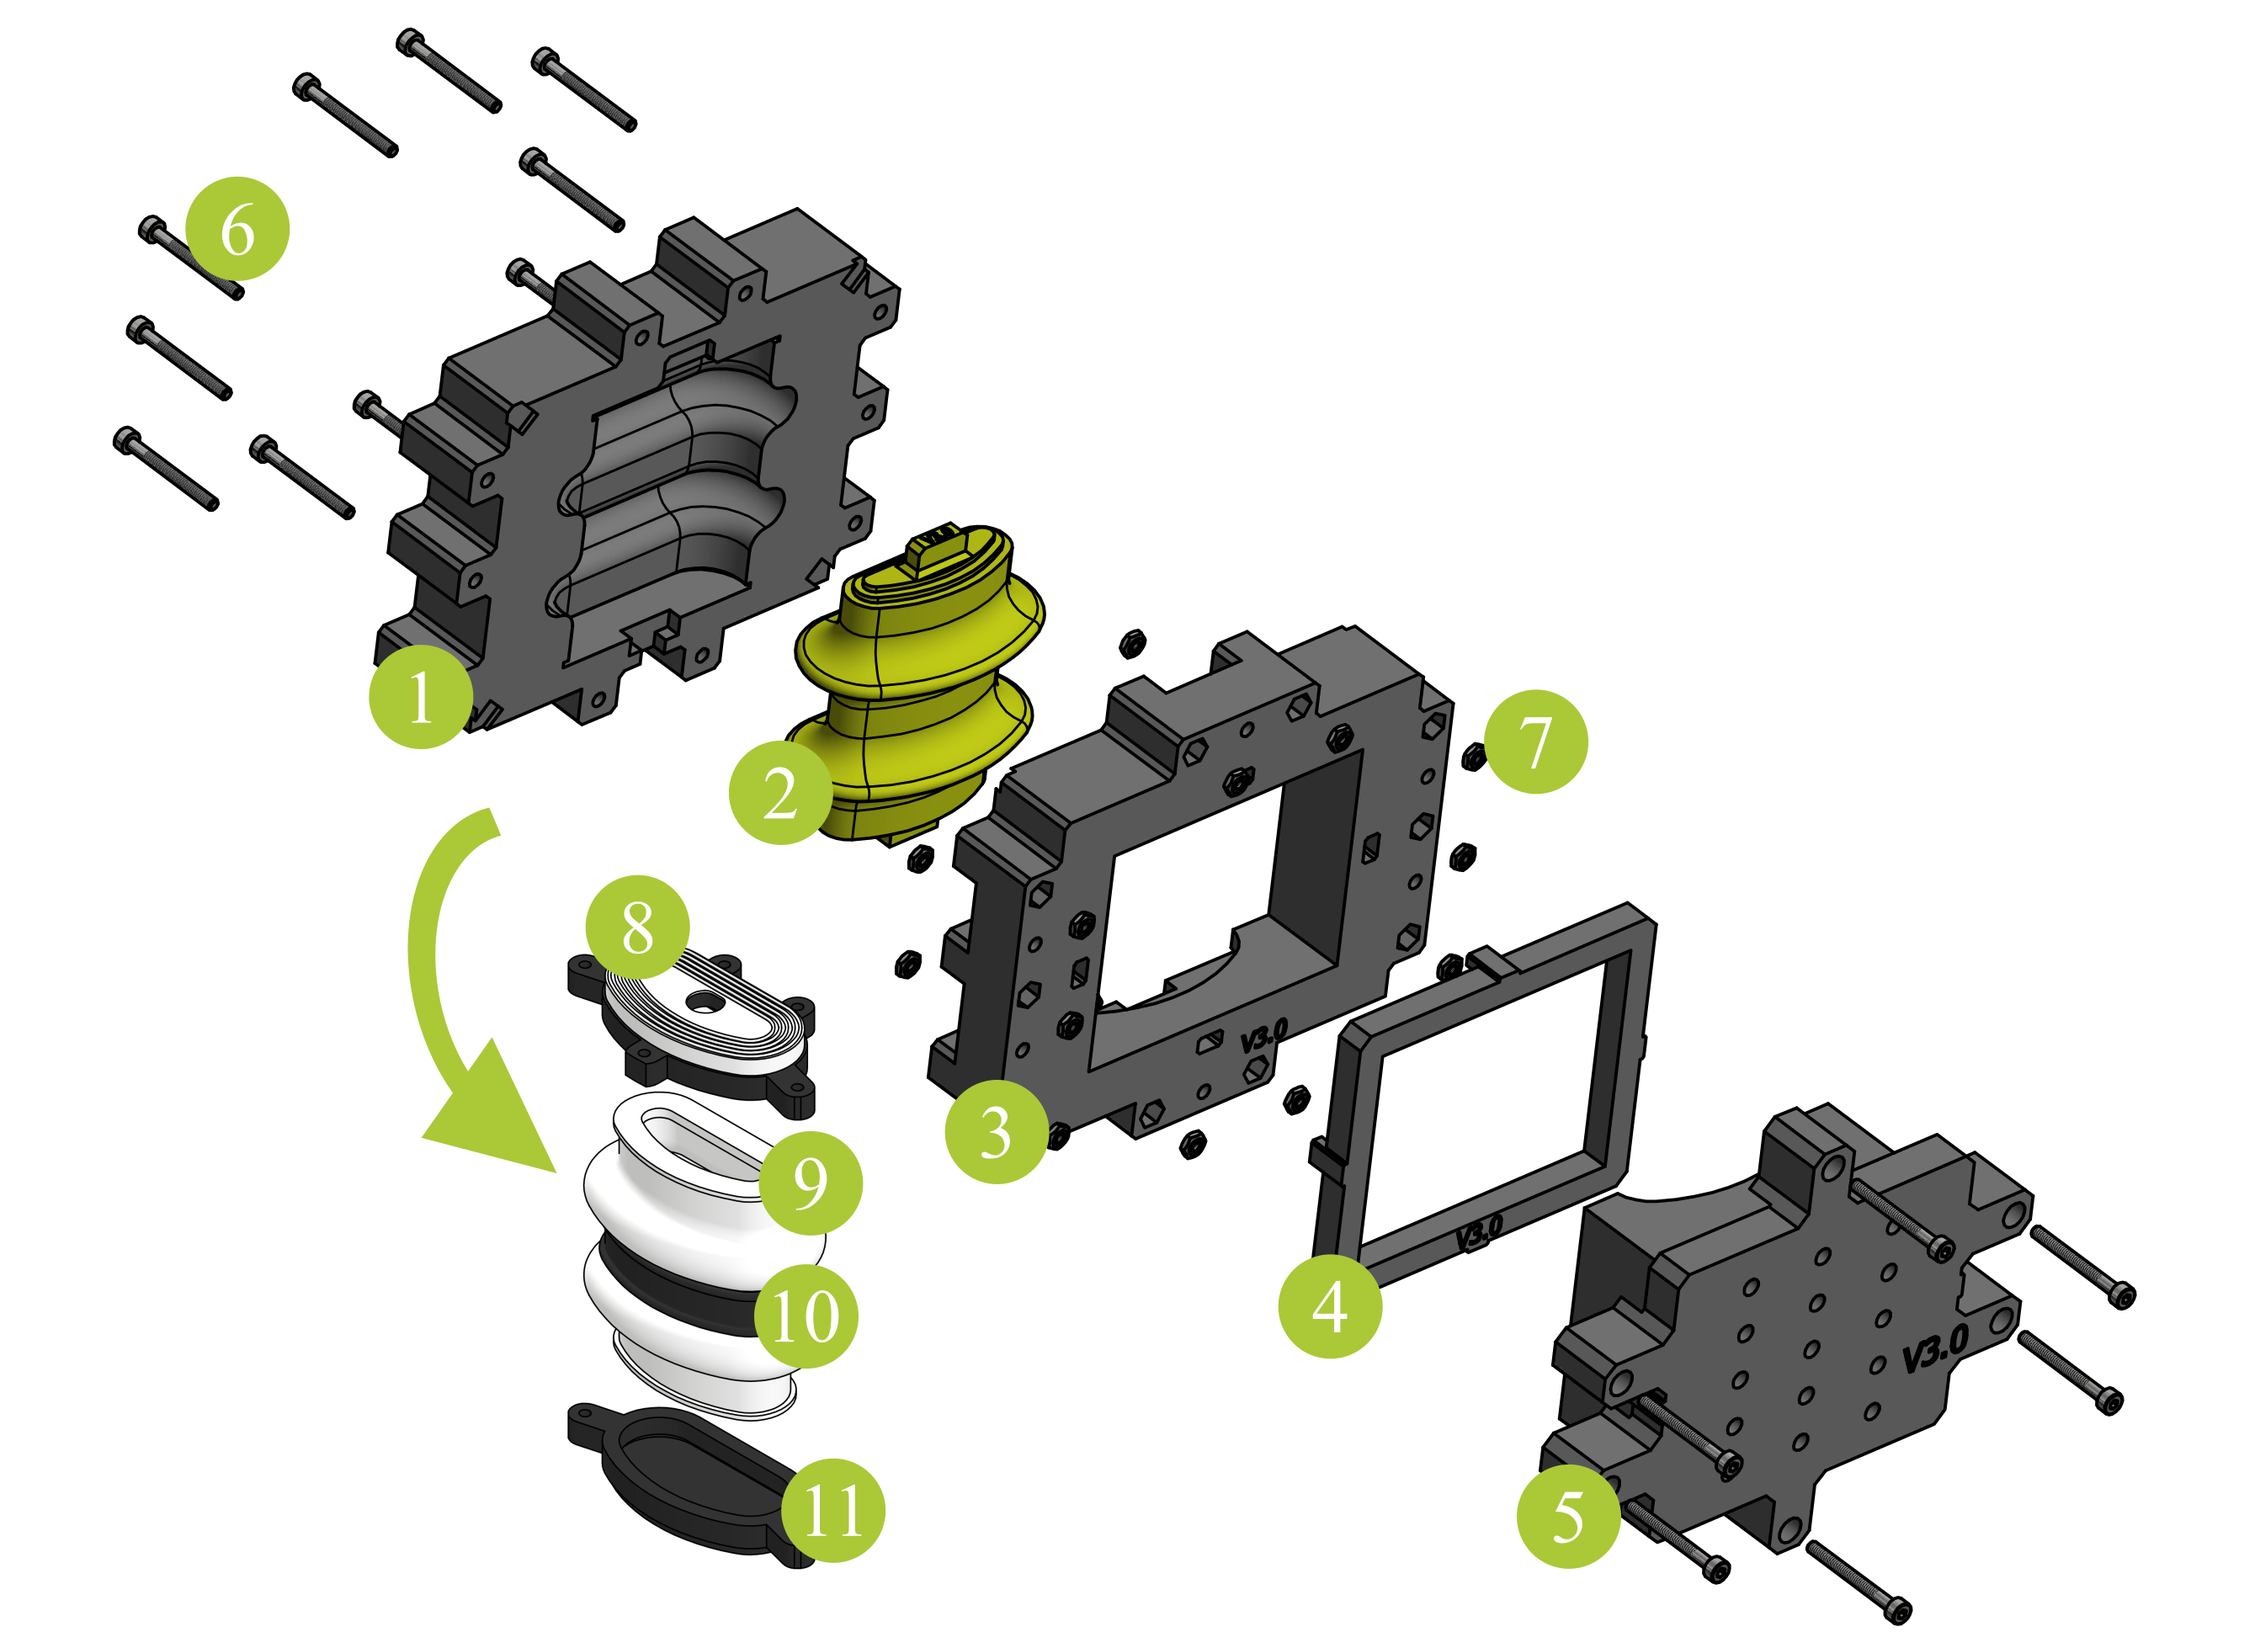
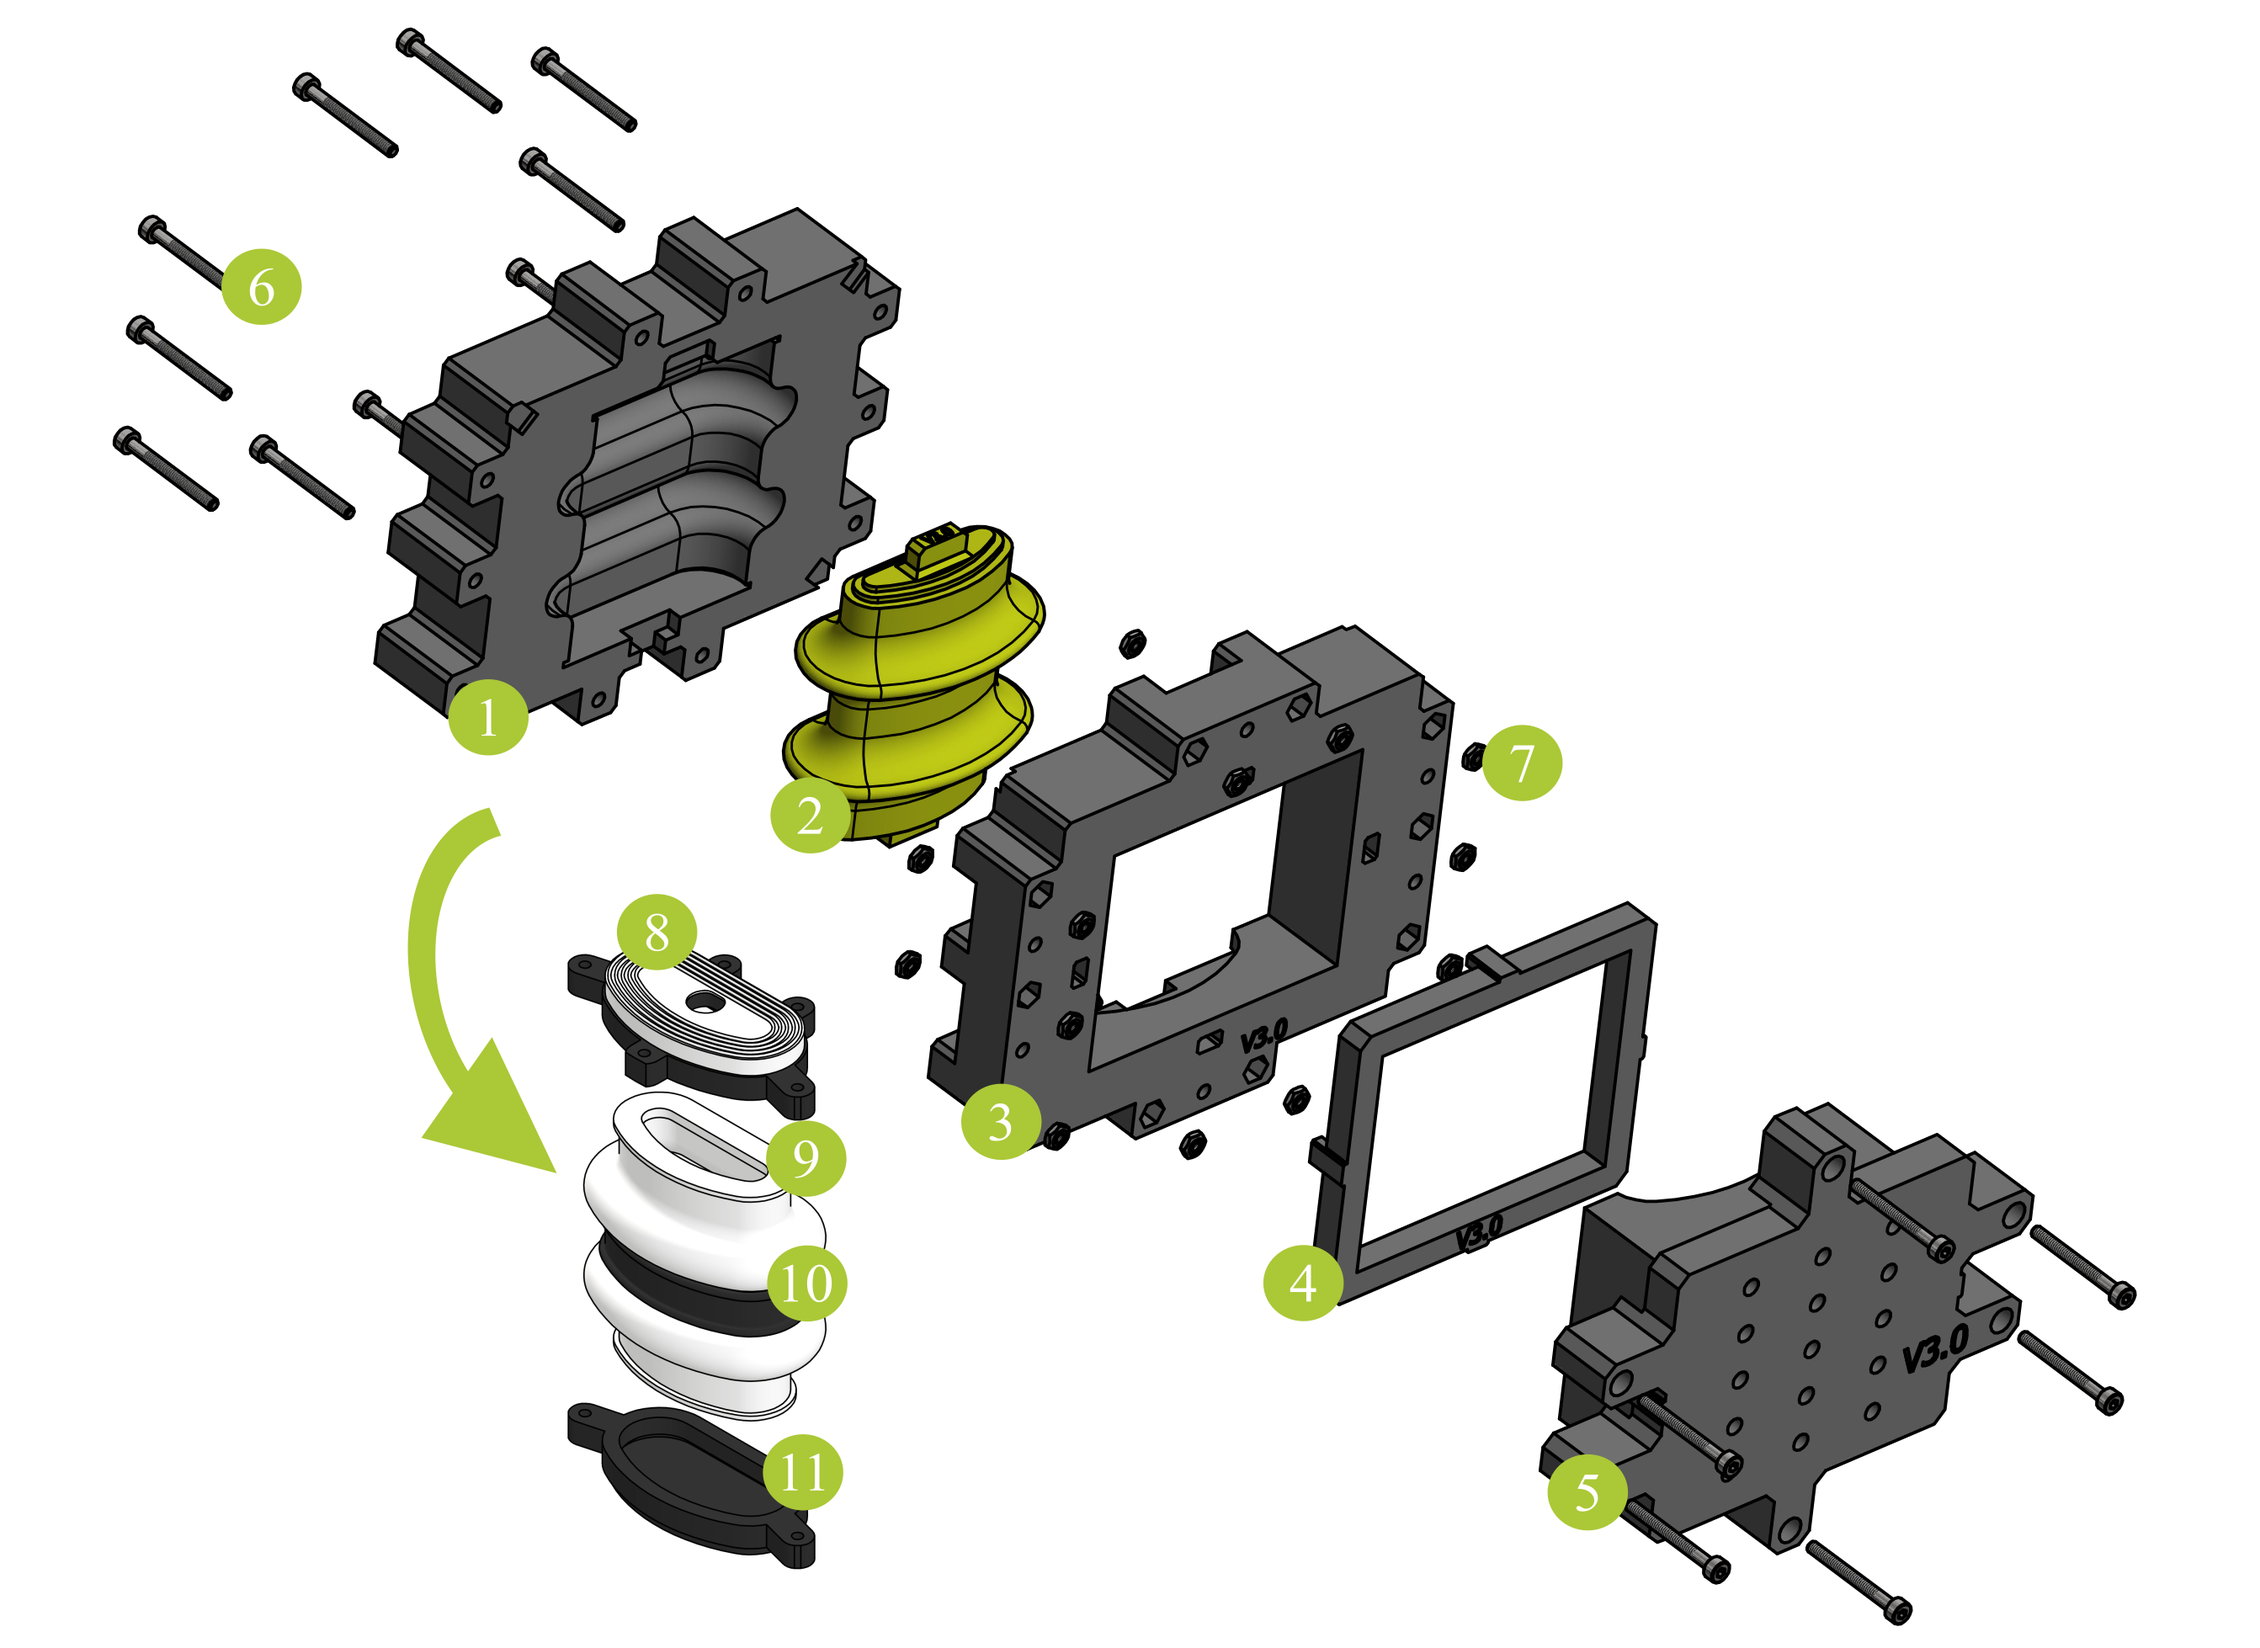
casting image resized

diff --git a/cast_bellows/index.md b/cast_bellows/index.md
@@ -6,7 +6,7 @@ nav_order: 3
 # Cast Bellows
 The 3D-printed soft bellows are problematic for long-term use: the material ages over time and becomes porous. In addition, the layer-by-layer production causes the bellows to fail after just a few load cycles. The silicone casting process is an alternative, as the entire membrane cures homogeneously. The semi-modular robot is used as an example to show how casted bellows can be manufactured and replace the printed ones. Using similar approaches, cast bellows can also be realized for the modular SPONGE.
 <p align="center">
-<img src="../images/bellows_cast.png" width=500>
+<img src="../images/bellows_cast.png" width=700>
 </p>
 
 ## Downloads
